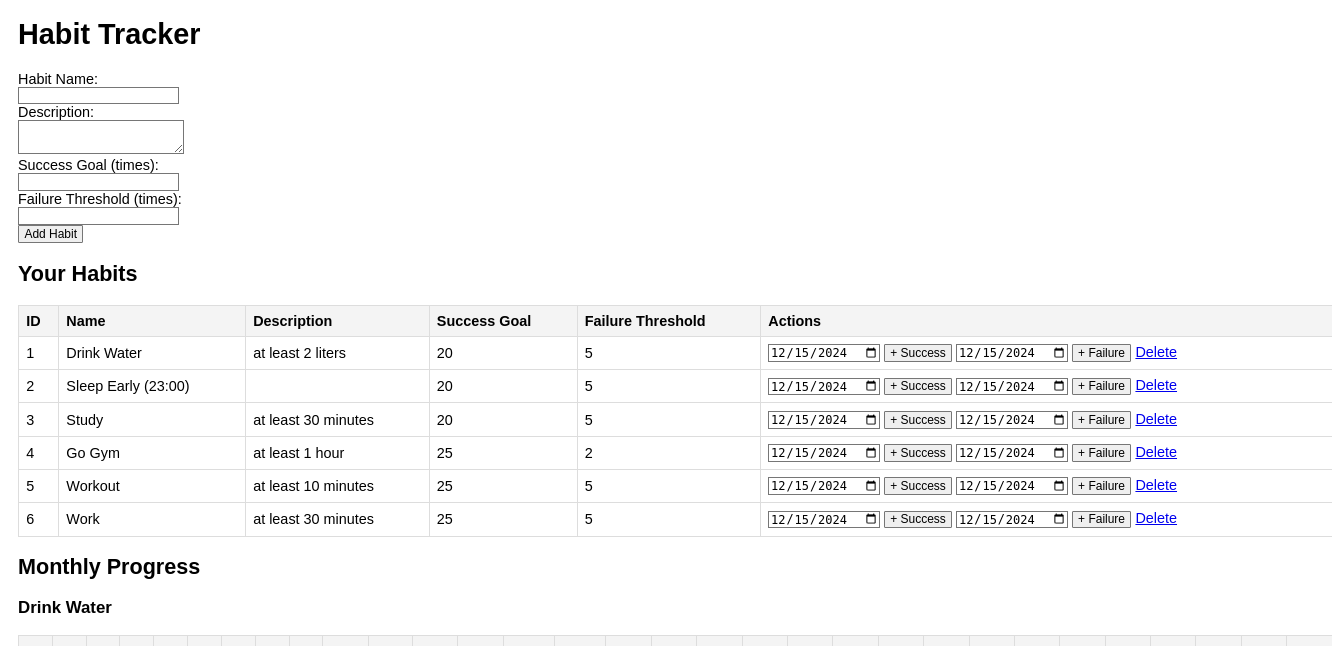
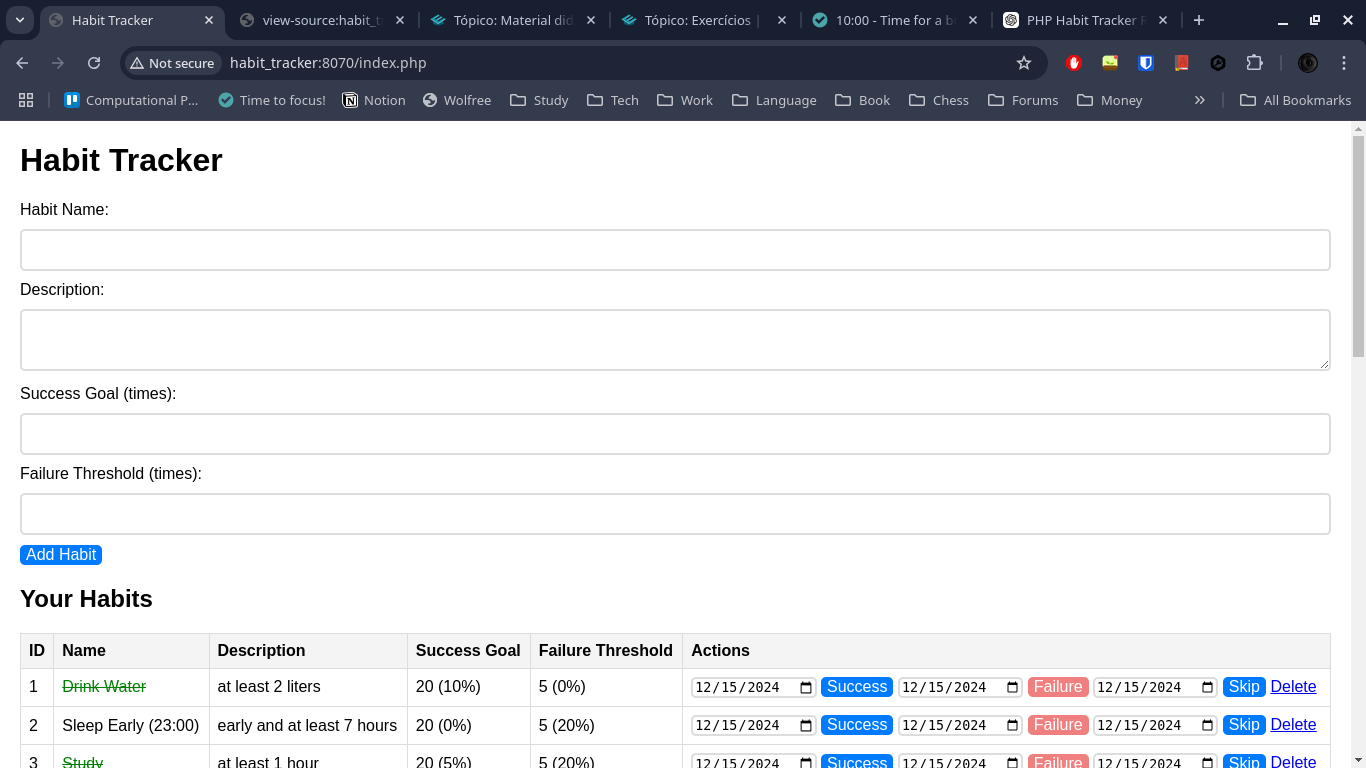
styling

diff --git a/index.php b/index.php
@@ -63,11 +63,11 @@ if (isset($_GET['update_progress'])) {
                 $column = 'skip_day';
                 break;
         }
-        
-        if($progress[$column] == 0){
+
+        if ($progress[$column] == 0) {
             $value = 1;
         }
-        
+
         $db->prepare("UPDATE habit_progress SET $column = $value WHERE id = :id")
             ->execute(['id' => $progress['id']]);
     } else {
@@ -141,7 +141,7 @@ $habits = $db->query("SELECT * FROM habits")->fetchAll(PDO::FETCH_ASSOC);
             text-decoration: line-through;
             color: green;
         }
-        
+
         .failed {
             text-decoration: line-through;
             color: red;
@@ -163,6 +163,48 @@ $habits = $db->query("SELECT * FROM habits")->fetchAll(PDO::FETCH_ASSOC);
 
         .neutral {
             background-color: khaki;
+        }
+
+        input[type="text"],
+        input[type="number"],
+        textarea {
+            width: 100%;
+            padding: 10px;
+            margin: 10px 0;
+            border: 2px solid #ddd;
+            border-radius: 5px;
+            font-size: 16px;
+            box-sizing: border-box;
+            transition: border-color 0.3s, box-shadow 0.3s;
+        }
+
+        input[type="date"]
+        {
+            border: 2px solid #ddd;
+            border-radius: 5px;
+            box-sizing: border-box;
+            transition: border-color 0.3s, box-shadow 0.3s;
+        }
+
+        input[type="text"]:focus,
+        textarea:focus {
+            border-color: #007BFF;
+            box-shadow: 0 0 8px rgba(0, 123, 255, 0.5);
+            outline: none;
+        }
+
+        button {
+            background-color: #007BFF;
+            color: white;
+            border: none;
+            border-radius: 5px;
+            font-size: 16px;
+            cursor: pointer;
+            transition: background-color 0.3s;
+        }
+
+        button:hover {
+            background-color: #0056b3;
         }
     </style>
 </head>
@@ -213,7 +255,7 @@ $habits = $db->query("SELECT * FROM habits")->fetchAll(PDO::FETCH_ASSOC);
                         if ($progress['failures'] > $progress['successes']) {
                             $class = 'failed';
                         }
-                        
+
                         if ($progress['skip_day']) {
                             $class = 'skipped';
                         }
@@ -223,8 +265,35 @@ $habits = $db->query("SELECT * FROM habits")->fetchAll(PDO::FETCH_ASSOC);
                         <?= htmlspecialchars($habit['name']) ?>
                     </td>
                     <td><?= htmlspecialchars($habit['description']) ?></td>
-                    <td><?= htmlspecialchars($habit['success_goal']) ?></td>
-                    <td><?= htmlspecialchars($habit['failure_goal']) ?></td>
+
+                    <?php
+                    $date_initial = date('Y-m-01');
+                    $date_final = date('Y-m-t');
+
+                    $stmt = $db->prepare("SELECT sum(successes) as successes, sum(failures) as failures  FROM habit_progress WHERE habit_id = :habit_id AND date >= :date_initial and date <= :date_final");
+                    $stmt->execute([
+                        'habit_id' => $habit['id'],
+                        'date_initial' => $date_initial,
+                        'date_final' => $date_final
+                    ]);
+                    $progress = $stmt->fetch(PDO::FETCH_ASSOC);
+                    $class = '';
+                    if ($progress) {
+                        if ($progress['successes'] > $habit['success_goal']) {
+                            $class = 'completed';
+                        }
+
+                        if ($progress['failures'] > $habit['failure_goal']) {
+                            $class = 'failed';
+                        }
+                        $success_perc = number_format($progress['successes'] / $habit['success_goal'] * 100, 0);
+                        $failure_perc = number_format($progress['failures'] / $habit['failure_goal'] * 100, 0);
+                    }
+                    ?>
+
+
+                    <td class="<?= $class ?>"><?= htmlspecialchars($habit['success_goal']) . " ({$success_perc}%)" ?></td>
+                    <td class="<?= $class ?>"><?= htmlspecialchars($habit['failure_goal']) . " ({$failure_perc}%)" ?></td>
                     <td>
                         <form method="GET" style="display: inline;">
                             <input type="hidden" name="update_progress" value="<?= $habit['id'] ?>">
@@ -237,7 +306,7 @@ $habits = $db->query("SELECT * FROM habits")->fetchAll(PDO::FETCH_ASSOC);
                             <input type="hidden" name="update_progress" value="<?= $habit['id'] ?>">
                             <input type="hidden" name="type" value="failure">
                             <input type="date" name="date" value="<?= date('Y-m-d') ?>" required>
-                            <button type="submit">Failure</button>
+                            <button class="failure" type="submit">Failure</button>
                         </form>
 
                         <form method="GET" style="display: inline;">
@@ -277,9 +346,9 @@ $habits = $db->query("SELECT * FROM habits")->fetchAll(PDO::FETCH_ASSOC);
                         if ($progress) {
                             echo "<td class='" .
                                 ($progress['successes'] > $progress['failures'] ? 'success' : ($progress['failures'] > $progress['successes'] ? 'failure' : '')) .
-                                "'>" . ($progress['successes'] > $progress['failures'] ? '&#x2713;' . $progress['successes'] : ($progress['failures'] > $progress['successes'] ? '&#x2717;' . $progress['failures'] : '')) . "</td>";
+                                "'>" . ($progress['successes'] > $progress['failures'] ? '&#x2713;' : ($progress['failures'] > $progress['successes'] ? '&#x2717;' : '')) . "</td>";
                         } else {
-                            echo "<td></td>";
+                            echo "<td>-</td>";
                         }
                     }
                     ?>
